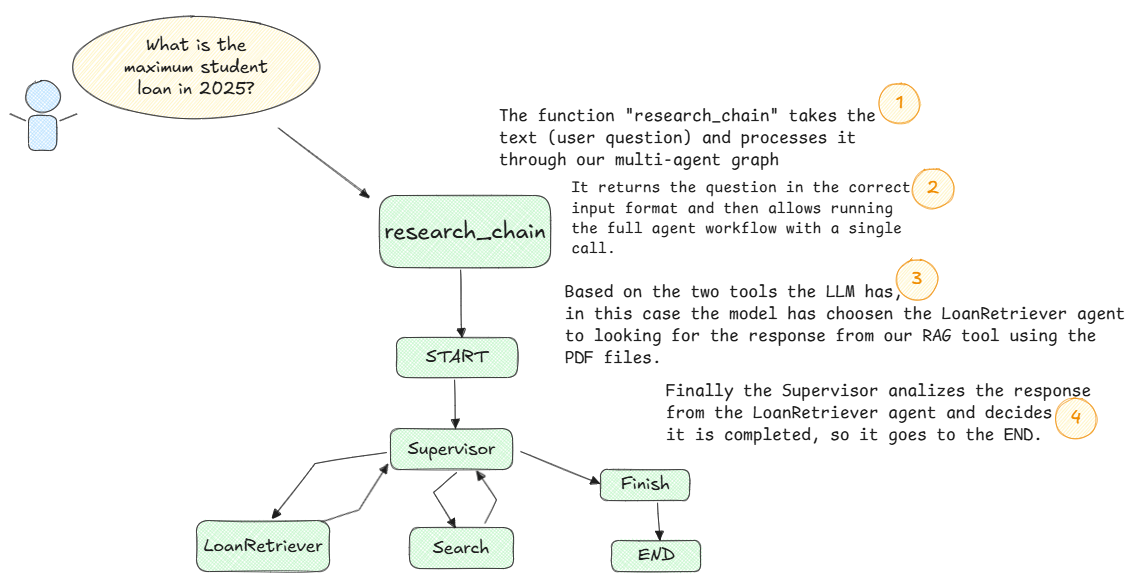
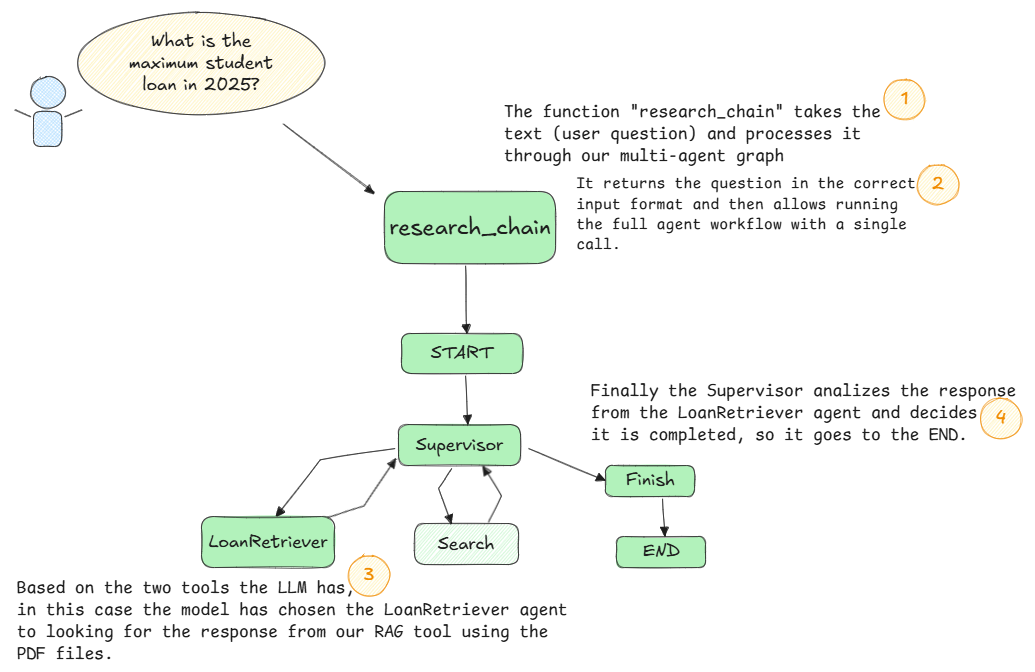
notebook reviewed

diff --git a/06_Multi_Agent_with_LangGraph/content/data/0d0bfd6a/Customer_Assistance_Response_Student_Loans.md b/06_Multi_Agent_with_LangGraph/content/data/0d0bfd6a/Customer_Assistance_Response_Student_Loans.md
@@ -1,0 +1,24 @@
+**Customer Assistance Response on Student Loans and Low-Income Students**
+
+Dear [Customer's Name],
+
+Thank you for reaching out to us regarding the impact of student loans on low-income students. This is an important issue that affects many individuals striving to pursue higher education.
+
+In recent years, the landscape of student loans has undergone significant changes. As of 2023, federal student loan debt decreased by approximately $34.9 billion, which is a positive development. Nevertheless, it is essential to consider that the total outstanding student loan debt in the U.S. still exceeds a staggering $1.7 trillion, impacting over 43 million borrowers, according to the Council on Foreign Relations. Many low-income students rely heavily on federal loans to finance their education, particularly in light of rising tuition costs.
+
+Moreover, recent statistics indicate that a substantial portion of student loan borrowers (28%) carries less than $10,000 in debt, yet those from lower-income backgrounds often face higher financial strain. Households with lower income levels typically hold a smaller percentage of overall student loan debt, but they are disproportionately impacted by the financial burdens imposed by these loans. A report noted that borrowers earning less than $25,000 were significantly more likely to be behind on their student loan payments compared to those earning higher incomes.
+
+The new SAVE plan, introduced in August 2023, aims to ease the repayment burden on borrowers, particularly focusing on income-driven repayment options. This initiative could be particularly beneficial for low-income students, as it adjusts monthly payments based on income and could allow for loan forgiveness after a set period of continued payments.
+
+While the introduction of such measures is encouraging, it remains crucial for low-income individuals to be aware of the long-term implications of student debt. The financial constraints imposed by loans could affect their career choices and growth potential, especially early in their careers when earnings are typically the lowest.
+
+We understand that navigating student loans can be overwhelming. If you have further questions or need personalized assistance, please don't hesitate to reach out. We are here to help guide you through your options.
+
+Sincerely,  
+[Your Name]  
+[Your Position]  
+[Your Contact Information]  
+
+---  
+
+This response has been crafted considering the latest developments in student loans and their implications for low-income students. It has undergone a final review for clarity and cohesiveness, ensuring that the information presented is both accurate and helpful.

diff --git a/06_Multi_Agent_with_LangGraph/content/data/0661500f/customer_assistance_response_student_loans.md b/06_Multi_Agent_with_LangGraph/content/data/0661500f/customer_assistance_response_student_loans.md
@@ -1,0 +1,23 @@
+### Customer Assistance Response: Positioning of Student Loans for Low-Income Students
+
+Dear [Customer's Name],
+
+Thank you for reaching out with your inquiries regarding student loans and their impact on low-income students. This is an important topic, and we are glad to provide you with essential insights.
+
+Student loans are critical in enabling low-income students to access higher education, often acting as a necessary financial lifeline when other funding options are not feasible. According to the U.S. Department of Education, various loan programs exist specifically for students with financial need, such as subsidized loans, which offer favorable terms and lower interest rates compared to unsubsidized loans.
+
+As of October 2023, following the cessation of COVID-19 emergency relief measures, federal student loan payments have resumed. While this presents challenges for many low-income borrowers, programs like Income-Driven Repayment (IDR) play a vital role in making repayments more manageable by tying them to income levels. These plans are designed to ensure payments remain affordable, helping to alleviate the financial burden on graduates entering the workforce.
+
+Additionally, completing the Free Application for Federal Student Aid (FAFSA) is essential as it provides access to various forms of federal aid, including grants that do not require repayment. Importantly, there are no income restrictions on filling out the FAFSA, allowing all students, regardless of their financial situation, to apply for financial assistance.
+
+We encourage you to explore available resources, including student loan options, repayment plans, and potential grants that may apply to your situation. Should you have any further questions or need personalized assistance, please feel free to reach out to us again.
+
+Best regards,
+
+[Your Name]  
+[Your Position]  
+[Your Contact Information]  
+
+---
+
+*Note: This document has been reviewed for accuracy and clarity and is finalized for distribution.*
